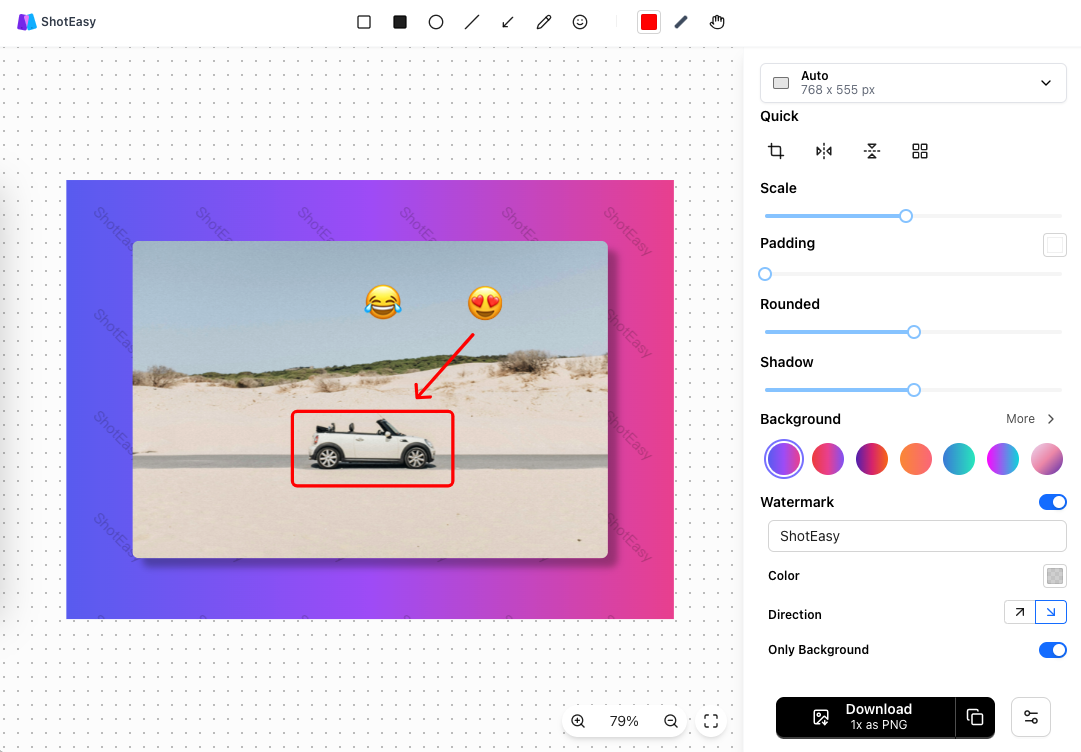
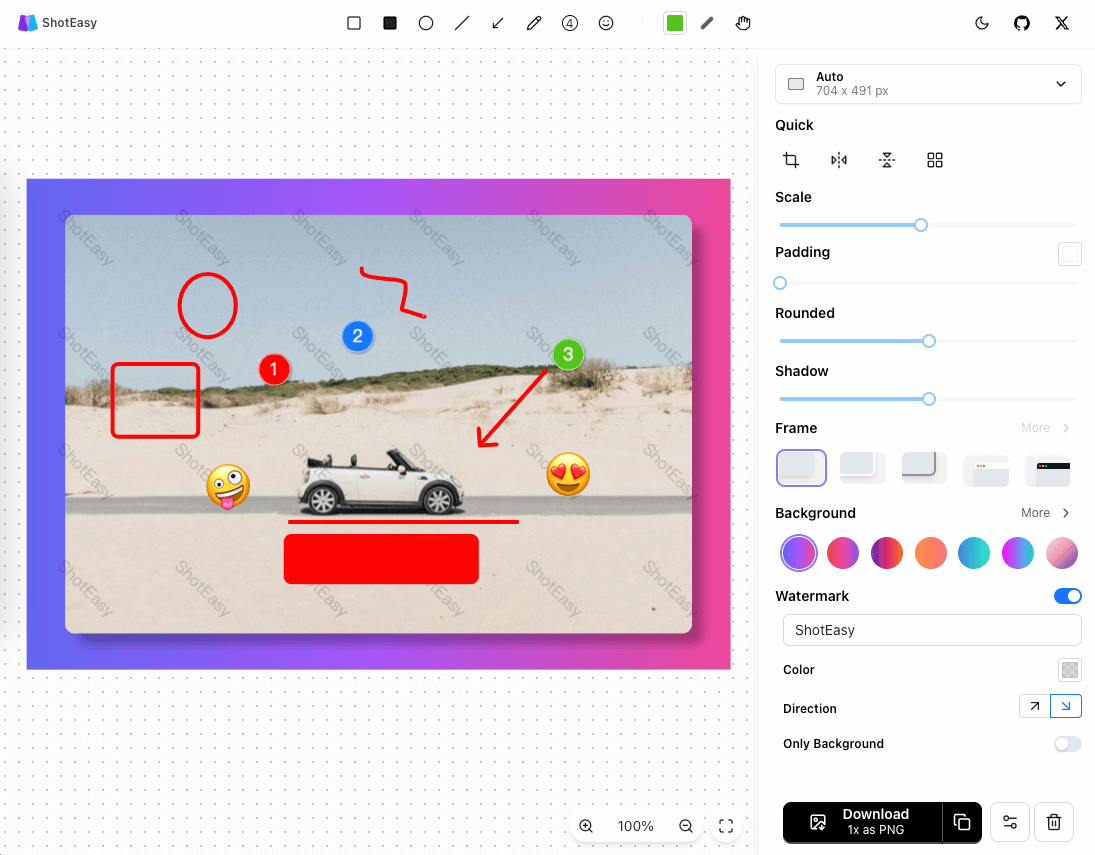
add frame

diff --git a/src/components/sideBar/FrameBar.jsx b/src/components/sideBar/FrameBar.jsx
@@ -1,0 +1,71 @@
+import { useState } from 'react';
+import { observer } from 'mobx-react-lite';
+import Icon from '@components/Icon';
+import { Button, Radio } from 'antd';
+import stores from '@stores';
+
+export default observer(() => {
+    const [showMore, setShowMore] = useState(false);
+    const handelChange = (e) => {
+        stores.option.setFrame(e.target.value)
+    }
+    return (
+        <div className="[&_label]:font-semibold [&_label]:text-sm">
+            <div className="flex justify-between items-center">
+                <label>Frame</label>
+                <Button
+                    type="text"
+                    size="small"
+                    className="text-xs flex items-center opacity-80 m-0"
+                    disabled
+                    onClick={() => setShowMore(true)}
+                >More <Icon.ChevronRight size={16} /></Button>
+            </div>
+            <div className="py-3 [&_.ant-radio-wrapper_span]:p-0 [&_.ant-radio-wrapper_span]:px-1">
+                <Radio.Group
+                    rootClassName="grid grid-cols-5"
+                    onChange={handelChange}
+                    value={stores.option.frame}
+                >
+                    <Radio className="[&_.ant-radio]:hidden [&_span]:mr-0 [&_span]:block [&_span]:w-full" value='none'>
+                        <div className="bg-gray-300/30 rounded-md h-8 overflow-hidden">
+                            <div className="bg-slate-300/40 h-7 w-[85%] rounded-md shadow-md -mt-1 -ml-1"></div>
+                        </div>
+                    </Radio>
+                    <Radio className="[&_.ant-radio]:hidden [&_span]:mr-0 [&_span]:block [&_span]:w-full" value='light'>
+                        <div className="bg-gray-300/30 rounded-md h-8 overflow-hidden">
+                            <div className="bg-slate-300/40 border-2 border-white/80 h-7 w-[85%] rounded-md shadow-md -mt-1 -ml-1"></div>
+                        </div>
+                    </Radio>
+                    <Radio className="[&_.ant-radio]:hidden [&_span]:mr-0 [&_span]:block [&_span]:w-full" value='dark'>
+                        <div className="bg-gray-300/30 rounded-md h-8 overflow-hidden">
+                            <div className="bg-slate-300/40 border-2 border-black/40 h-7 w-[85%] rounded-md shadow-md -mt-1 -ml-1"></div>
+                        </div>
+                    </Radio>
+                    <Radio className="[&_.ant-radio]:hidden [&_span]:mr-0 [&_span]:block [&_span]:w-full" value='macosBarLight' disabled>
+                        <div className="bg-gray-300/30 rounded-md h-8 overflow-hidden">
+                            <div className="bg-slate-300/40 h-7 w-[85%] rounded-sm shadow-md mt-2 ml-3 overflow-hidden">
+                                <div
+                                    className="h-1.5 bg-white/90 px-0.5 flex items-center gap-[1px] before:block before:rounded-full before:w-0.5 before:h-0.5 before:bg-red-500 after:w-0.5 after:h-0.5 after:bg-green-500"
+                                >
+                                    <i className="block w-0.5 h-0.5 bg-yellow-500"></i>
+                                </div>
+                            </div>
+                        </div>
+                    </Radio>
+                    <Radio className="[&_.ant-radio]:hidden [&_span]:mr-0 [&_span]:block [&_span]:w-full" value='macosBarDark' disabled>
+                        <div className="bg-gray-300/30 rounded-md h-8 overflow-hidden">
+                            <div className="bg-slate-300/40 h-7 w-[85%] rounded-sm shadow-md mt-2 ml-3 overflow-hidden">
+                                <div
+                                    className="h-1.5 bg-black/90 px-0.5 flex items-center gap-[1px] before:block before:rounded-full before:w-0.5 before:h-0.5 before:bg-red-500 after:w-0.5 after:h-0.5 after:bg-green-500"
+                                >
+                                    <i className="block w-0.5 h-0.5 bg-yellow-500"></i>
+                                </div>
+                            </div>
+                        </div>
+                    </Radio>
+                </Radio.Group>
+            </div>
+        </div>
+    );
+});

diff --git a/src/components/editor/layers/Screenshot.jsx b/src/components/editor/layers/Screenshot.jsx
@@ -1,10 +1,11 @@
-import { useEffect, useMemo } from 'react';
+import { useEffect, useMemo, useRef } from 'react';
 import { observer } from 'mobx-react-lite';
-import { Image, Box } from 'leafer-ui';
+import { Image, Box, Rect } from 'leafer-ui';
 import stores from '@stores';
 import { computedSize, getPosition, getMargin } from '@utils/utils';
 
 export default observer(({ parent }) => {
+    const bar = useRef(null);
     const [image, box] = useMemo(() => {
         const image = new Image({
             url: stores.editor.img.src,
@@ -13,6 +14,7 @@ export default observer(({ parent }) => {
         const box = new Box({
             overflow: 'hide',
             scale: 1,
+            strokeAlign: 'outside',
             children: [image]
         });
         return [image, box];
@@ -28,7 +30,7 @@ export default observer(({ parent }) => {
 
     useEffect(() => {
         box.cornerRadius = stores.option.round;
-        image.cornerRadius = stores.option.round - 2;
+        image.cornerRadius = stores.option.round;
     }, [stores.option.round]);
 
     useEffect(() => {
@@ -63,21 +65,38 @@ export default observer(({ parent }) => {
     }, [stores.option.scaleY]);
 
     useEffect(() => {
+        switch (stores.option.frame) {
+            case 'light':
+                box.strokeWidth = 8;
+                box.stroke = '#ffffff80';
+                break;
+            case 'dark':
+                box.strokeWidth = 8;
+                box.stroke = '#00000050';
+                break;
+            default:
+                box.strokeWidth = null;
+                box.stroke = null;
+        };
         const margin = getMargin(stores.option.frameConf.width, stores.option.frameConf.height);
         const { width, height } = computedSize(stores.editor.img.width, stores.editor.img.height, stores.option.frameConf.width - margin, stores.option.frameConf.height - margin);
-        image.width = width - stores.option.padding;
-        image.height = height - stores.option.padding;
+        image.width = width - stores.option.padding + 2; // 解决有缝隙的问题
+        image.height = height - stores.option.padding + 2;
         box.width = width;
         box.height = height;
         box.origin = stores.option.align;
         const { x, y } = getPosition(stores.option.align, stores.option.frameConf.width - width, stores.option.frameConf.height - height);
         box.x = x;
         box.y = y;
-        if (stores.option.padding > 0) {
-            image.x = stores.option.padding / 2;
-            image.y = stores.option.padding / 2;
-        }
-    }, [stores.option.frameConf.width, stores.option.frameConf.height, stores.option.padding, stores.option.align]);
+        image.x = (stores.option.padding > 0 ? stores.option.padding / 2 : 0) - 1;
+        image.y = (stores.option.padding > 0 ? stores.option.padding / 2 : 0) - 1;
+        return (() => {
+            box.strokeWidth = null;
+            box.stroke = null;
+            bar.current?.remove();
+            bar.current = null;
+        });
+    }, [stores.option.frameConf.width, stores.option.frameConf.height, stores.option.padding, stores.option.align, stores.option.frame]);
 
     useEffect(() => {
         parent.add(box);

diff --git a/src/components/sideBar/SideBar.jsx b/src/components/sideBar/SideBar.jsx
@@ -12,6 +12,7 @@ import Position from './Position';
 import Watermark from './Watermark';
 import DownloadBar from './DownloadBar';
 import DrawerBar from './DrawerBar';
+import FrameBar from './FrameBar';
 
 
 export default observer(() => {
@@ -94,6 +95,7 @@ export default observer(() => {
                         value={typeof stores.option.shadow === 'number' ? stores.option.shadow : 0}
                     />
                 </div>
+                <FrameBar />
                 <div className="[&_label]:font-semibold [&_label]:text-sm">
                     <div className="flex justify-between items-center">
                         <label>Background</label>
@@ -106,7 +108,8 @@ export default observer(() => {
                     </div>
                     <div className="py-3">
                         <Radio.Group
-                            onChange={onBgChange} value={stores.option.background}
+                            onChange={onBgChange}
+                            value={stores.option.background}
                             rootClassName="grid grid-cols-7 [&_span]:ps-0"
                         >
                             <Radio className="[&_.ant-radio]:hidden [&_span]:p-0 mr-0" value='default_1'>

diff --git a/src/components/sideBar/DrawerBar.jsx b/src/components/sideBar/DrawerBar.jsx
@@ -38,7 +38,8 @@ export default observer(({ showMore, onChange }) => {
                         type="text"
                         size="small"
                         className="text-xs flex items-center opacity-80 m-0"
-                        icon={<Icon.ChevronLeft size={16} />}
+                        icon={<Icon.ChevronRight size={16} />}
+                        iconPosition="end"
                         onClick={() => onChange(false)}
                     >Back</Button>
                 </div>

diff --git a/src/style/main.css b/src/style/main.css
@@ -38,7 +38,7 @@
         background-size: 14px 14px;
     }
     .ant-radio-wrapper-checked .h-8 {
-        box-shadow: 0 0 0 2px #fff, 0 0 0 4px var(--c-se);
+        box-shadow: 0 0 0 1px #fff, 0 0 0 3px var(--c-se);
     }
     .position-block {
         @apply relative after:block after:transition-all after:w-8 after:h-8 after:rounded-md after:border after:border-blue-300 after:bg-blue-100 after:absolute after:z-10;

diff --git a/src/components/editor/layers/ShapeLine.jsx b/src/components/editor/layers/ShapeLine.jsx
@@ -88,7 +88,7 @@ export default ({ parent, type, id, width, height, x, y, fill, strokeWidth, zInd
                 width: 32,
                 height: 32,
                 stroke: '#ffffff90',
-                strokeWidth: 2,
+                strokeWidth: 1,
                 lockRatio: true,
                 shadow: {
                     x: 1,

diff --git a/src/utils/utils.js b/src/utils/utils.js
@@ -53,7 +53,7 @@ export const computedSize = (w, h, maxWidth = 950, maxHeight = 450) => {
         width *= maxHeight / height;
         height = maxHeight;
     }
-    return { width, height };
+    return { width: Math.round(width), height: Math.round(height) };
 };
 
 export const getImage = (src) => {

diff --git a/src/stores/option.js b/src/stores/option.js
@@ -56,6 +56,10 @@ class Option {
         this.shadow = value;
     }
 
+    setFrame(value) {
+        this.frame = value;
+    }
+
     setFrameSize(width, height) {
         if (!width || !height) return;
         this.frameConf.width = width;
